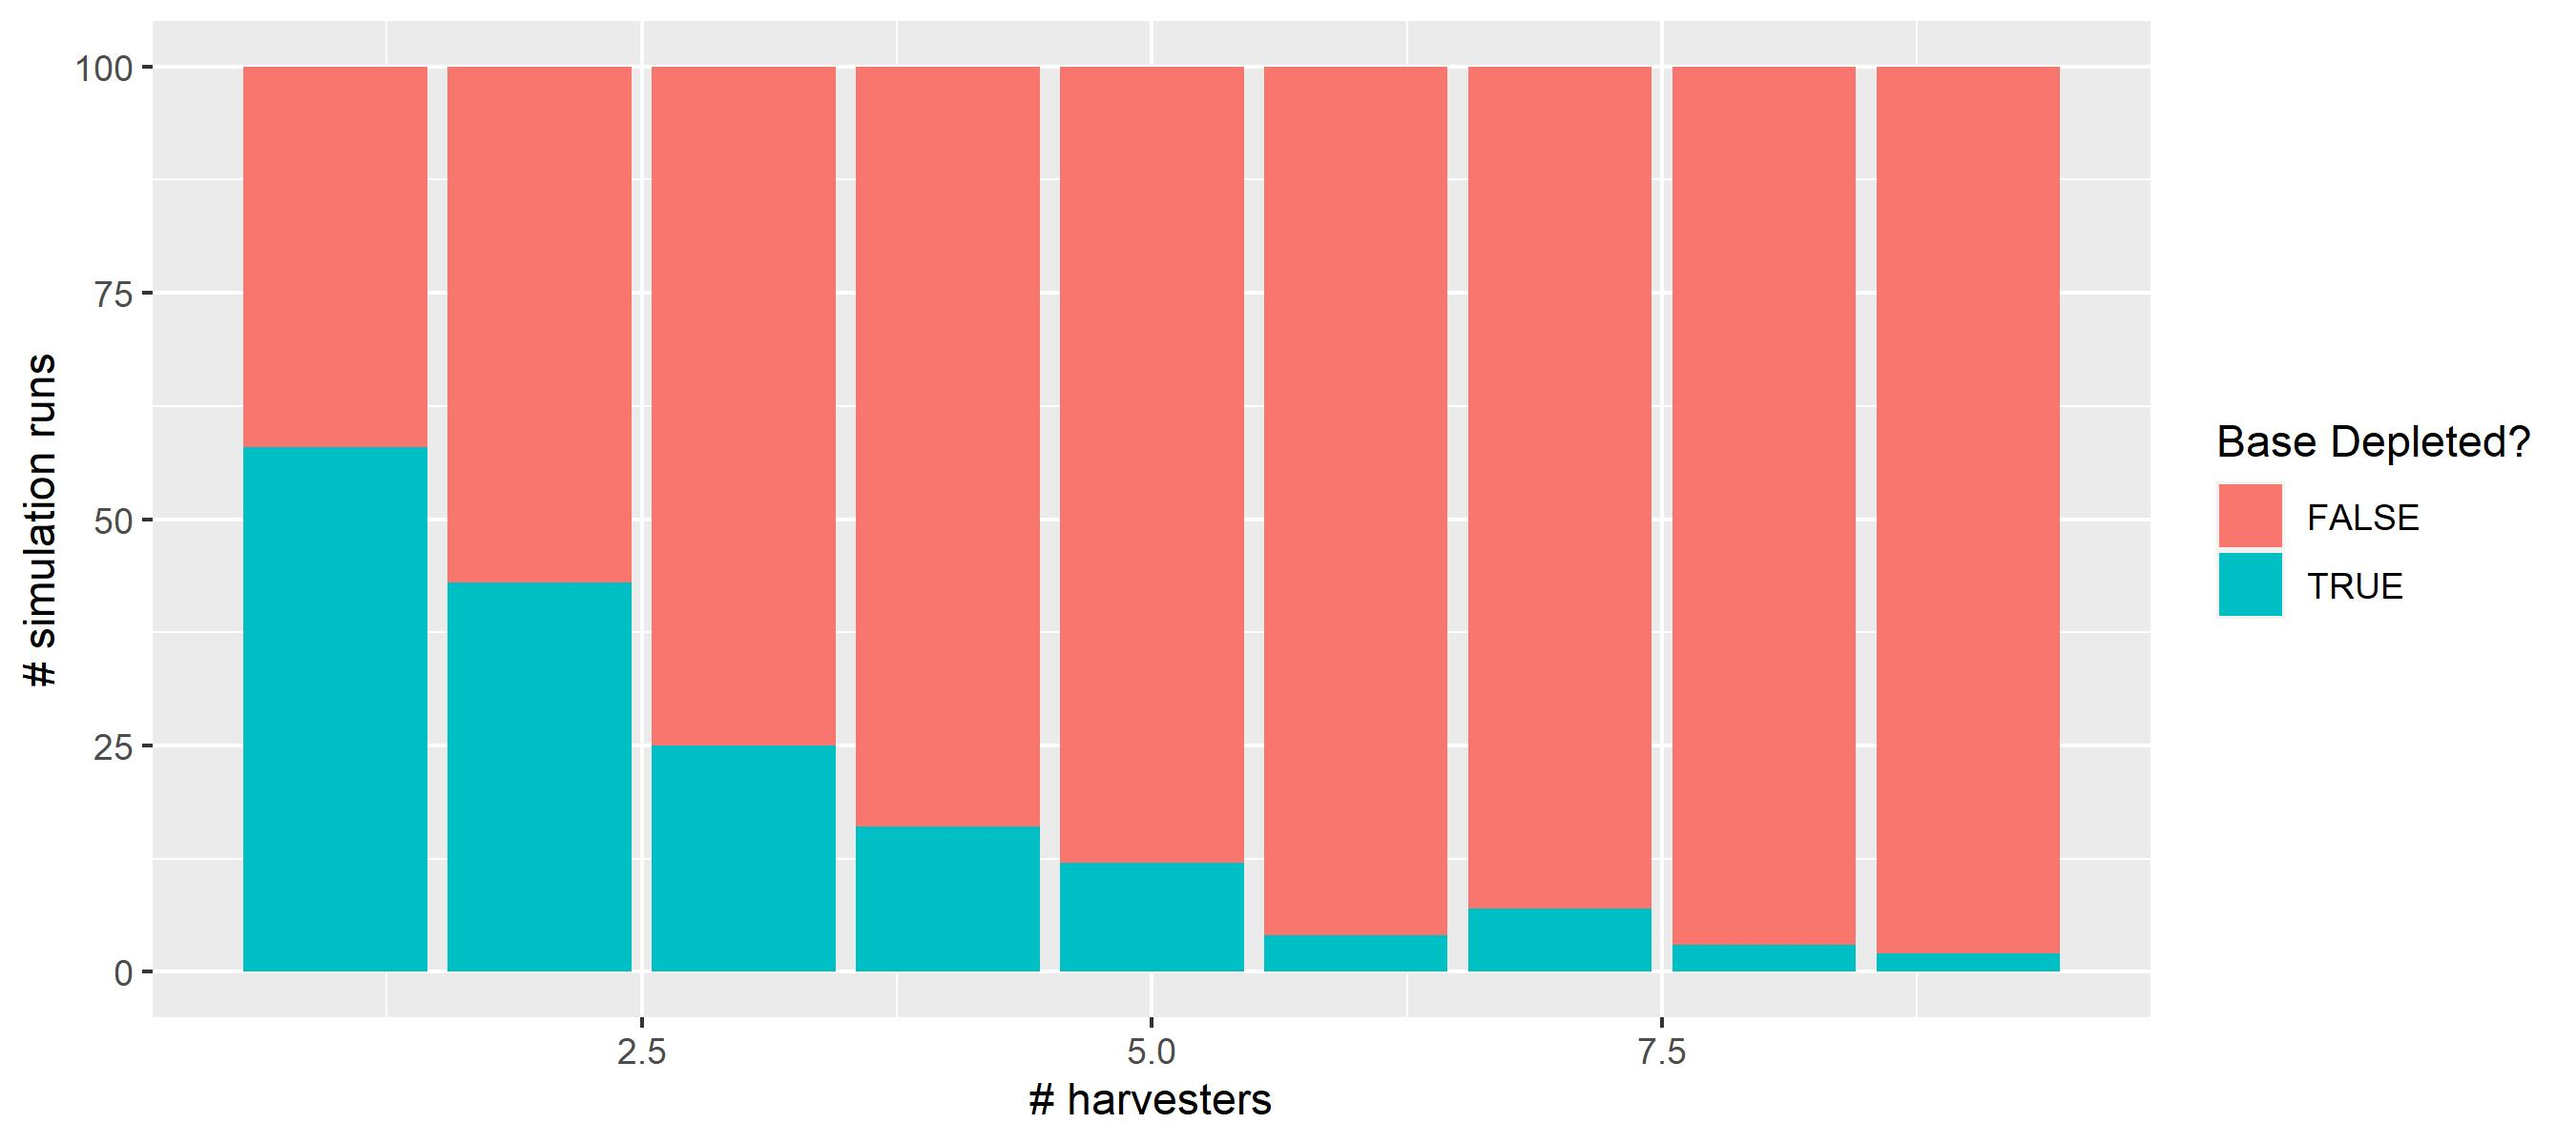
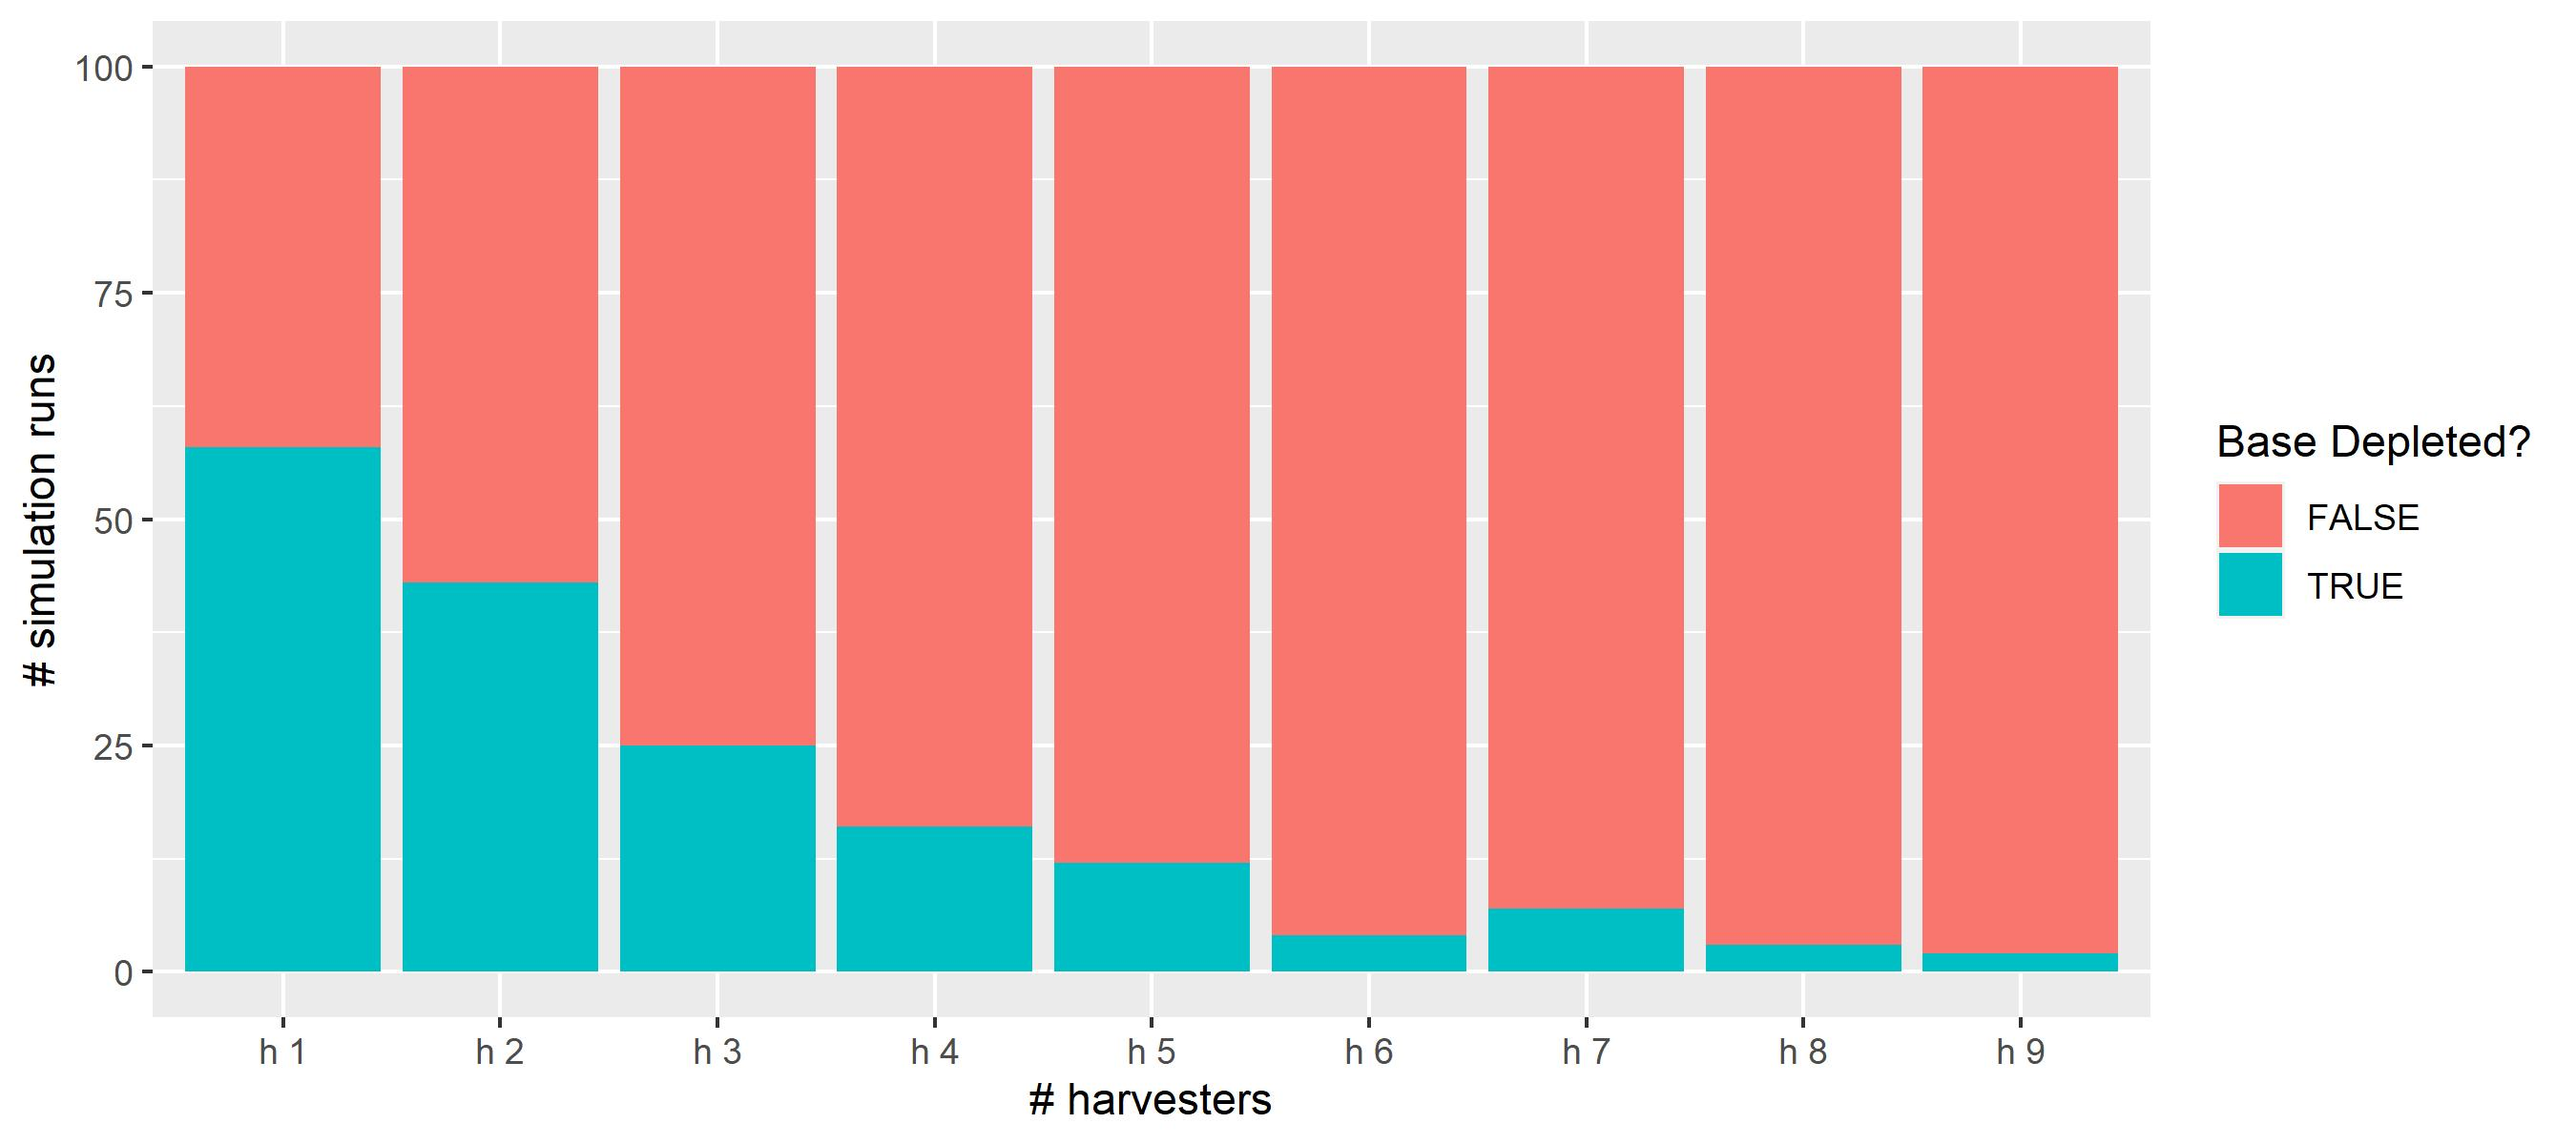
simplified bar plot

diff --git a/docs/userguide/docs/animation/lunar_mining.md b/docs/userguide/docs/animation/lunar_mining.md
@@ -164,7 +164,7 @@ With more ice harvesters working around the base, supply of water is ensured. In
 
 ```kotlin
 sims.map { sim ->
-    (""+sim.harvesters.size) to
+    ("h "+sim.harvesters.size) to
             sim.base.refinery.levelTimeline.statistics().min
 }.plot(x={ first}, fill={second==0.0})
     .geomBar()
@@ -183,7 +183,7 @@ sims.map { sim ->
 
 As shown in the figure, it turns out, that with >=5 ice harvestering robots, the risk of water supply depletion at the base station is within an acceptable range.
 
-We have just analyzed a the lunar mining model using controlled randomization, and have performed a basic supply-chain analysis.
+We have just analyzed a the lunar mining model using controlled randomization, and have performed a basic capacity analysis.
 
 
 ## Exercise: Maintenance Module
